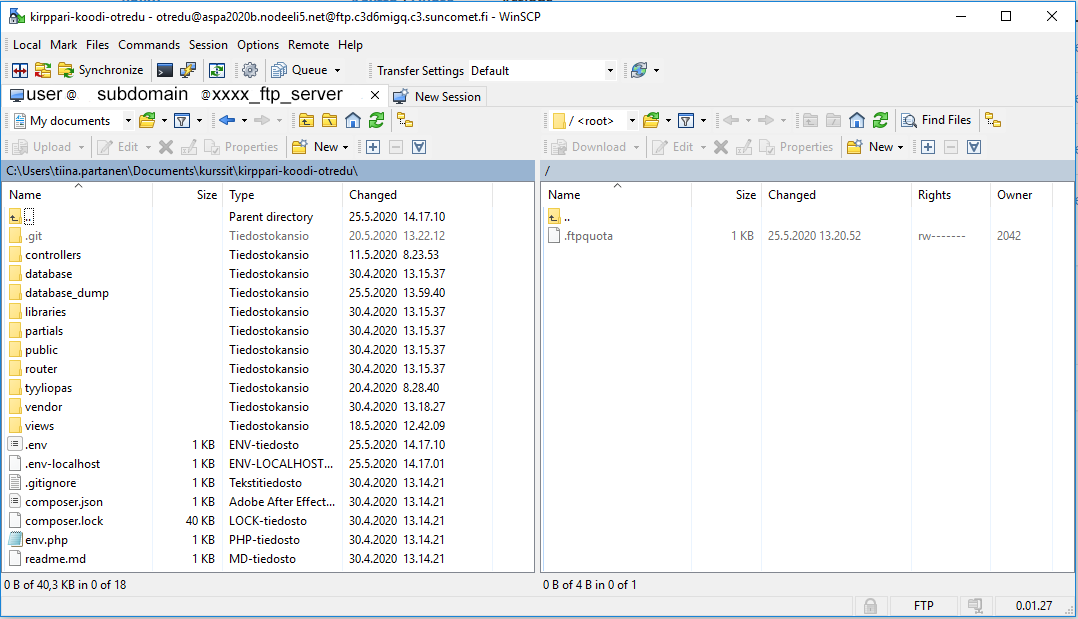
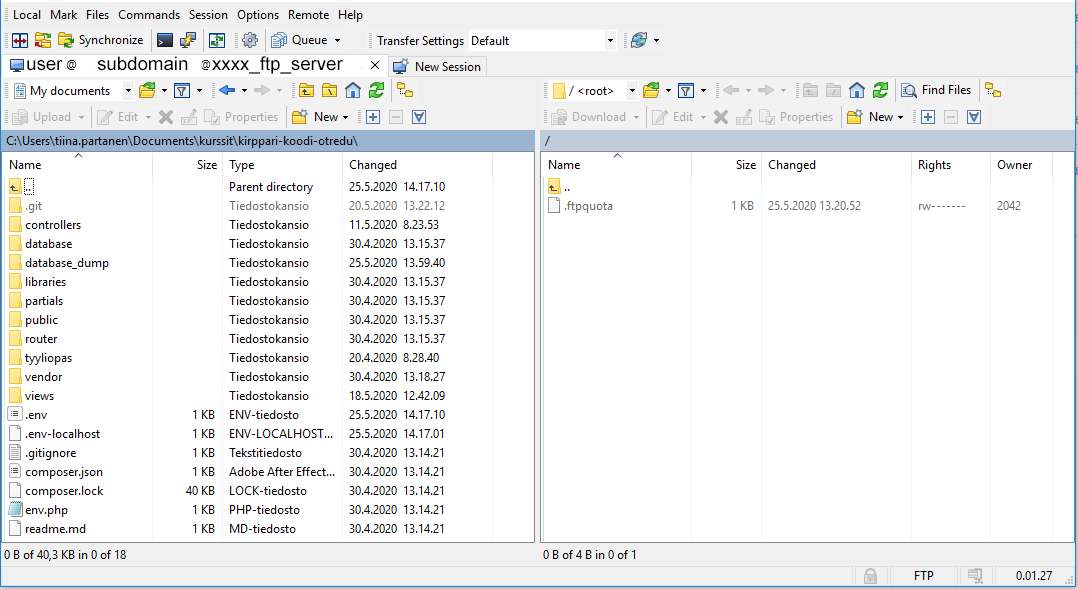
update

Changed region(s): [[0.0, 0.0, 1.0, 1.0], [0.8265, 0.9779, 0.8878, 1.0], [0.8571, 0.3667, 0.8878, 0.3973]]

diff --git a/asiointipalveluprojekti/wordpress.md b/asiointipalveluprojekti/wordpress.md
@@ -23,7 +23,7 @@
 
 6. Siirrä kaikki WP-tiedostot palvelimelle *public*-kansion sisälle hinaamalla ne vasemmalta oikealle.
 
-    ![winscp tiedostojen siirto](./img/winscp_files1.PNG)
+    ![winscp tiedostojen siirto](./img/winscp_files2.PNG)
 
 7. Nyt wp-konffaussivun pitäisi aueta osoiteesta: *xxxx_username.nodeeli5.net*. Konffaa selaimessa WP-palvelimesi loppuun, tallenna huolella wp-admin-tunnus ja salasana!
 
